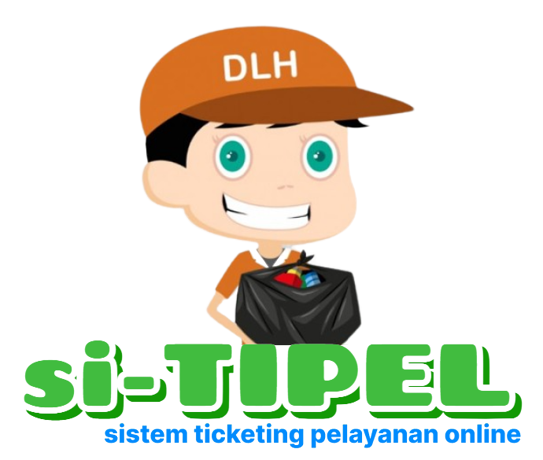
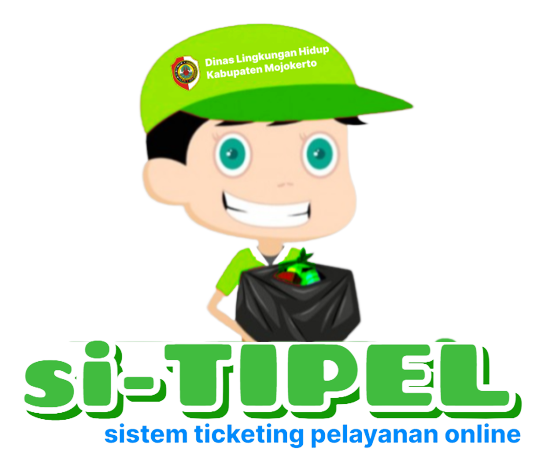
perbaikan semua notifikasi diuser maupun admin

diff --git a/resources/views/home/index.blade.php b/resources/views/home/index.blade.php
@@ -10,7 +10,7 @@
   <meta content="" name="keywords">
 
   <!-- Favicons -->
-  <link href="/img/si-TIPEL.png" rel="icon">
+  <link href="/img/logo-baru.png" rel="icon">
   <link href="/img/apple-touch-icon.png" rel="apple-touch-icon">
 
   <!-- Google Fonts -->
@@ -61,9 +61,8 @@
   <header id="header" class="fixed-top ">
    
     <div class="container d-flex align-items-center">
-      <div class="me-1 ">
-        <img src="/img/logo-kementrian.png" width="60" alt="">
-      </div>
+
+
       <div class="me-1 ">
         <img src="/img/logo-mojokerto.png" width="60" alt="">
       </div>
@@ -120,8 +119,10 @@
         <div class="col-lg-6 d-flex flex-column justify-content-center pt-3  pt-lg-0 order-2 order-lg-1" data-aos="fade-up" data-aos-delay="200">
 
           @auth
-          <h1>Selamat Datang {{ auth()->user()->name }} Di Sistem Ticketing Pelayanan Online</h1>
-          <h2>UPT Dinas Lingkungan Hidup Kabupaten Mojokerto</h2>
+          <h1>Selamat Datang </h1>
+          <h1>{{ auth()->user()->name }} </h1>
+          <h1>Di Website si-Tipel</h1>
+          <h2 class="" style="font-weight: 1000px;">Sistem Ticketing Pelayanan Online DLH Kabupaten Mojokerto</h2>
           <div class="d-flex justify-content-center justify-content-lg-start mt-5">
             <a href="/dashboard" class="btn-get-started scrollto" ><i class="bi bi-box-arrow-in-up-right"></i> Dashboard Saya</a>
             <a href="/dashboard" class="btn-get-started bg-success scrollto ms-3" ><i class="bi bi-pencil-square"></i> Buat Laporan</a>
@@ -129,8 +130,8 @@
             </div>
   
           @else
-          <h1>Selamat Datang Di Sistem Ticketing Pelayanan Online</h1>
-          <h2>UPT Dinas Lingkungan Hidup Kabupaten Mojokerto</h2>
+          <h1>Selamat Datang Di Website si-Tipel</h1>
+          <h2 class="" style="font-weight: 1000px;">Sistem Ticketing Pelayanan Online DLH Kabupaten Mojokerto</h2>
           <div class="d-flex justify-content-center justify-content-lg-start mt-5">
             <a href="/login" class="btn-get-started scrollto"><i class="bi bi-box-arrow-in-up-right"></i> Buat Aduan</a>
             <a href="#about" class="btn-get-started scrollto ms-3" ></i>Selengkapnya</a>
@@ -138,7 +139,7 @@
           @endauth
         </div>
         <div class="col-lg-6 order-1 order-lg-2 hero-img" data-aos="zoom-in" data-aos-delay="200">
-          <img src="/img/Frame_33.png" class="img-fluid" width="530" alt="">
+          <img src="/img/logo-baru.png" class="img-fluid" width="530" alt="">
         </div>
       </div>
     </div>

diff --git a/database/seeders/NotifikasiSeeder.php b/database/seeders/NotifikasiSeeder.php
@@ -14,58 +14,13 @@ class NotifikasiSeeder extends Seeder
     public function run(): void
     {
         Notifikasi::create([
-            'user_id' => 1,
-            'judul'=> 'Laporan Update',
-            'logo'=> 'clipboard',
-            'textlogo'=> 'text-primary',
-            'pesan' => 'Ini adalah notifikasi pertama.',
-            'status' => false,
-            'created_at' => '2023-02-18 08:37:02',
-
-        ]);
-        Notifikasi::create([
-            'user_id' => 1,
-            'judul'=> 'Laporan Update',
-            'logo'=> 'clipboard',
-            'textlogo'=> 'text-primary',
-            'pesan' => 'Ini adalah notifikasi kedua.',
-            'status' => false,
-            'created_at' => '2023-02-19 09:37:02',
-        ]);
-        Notifikasi::create([
-            'user_id' => 1,
-            'judul'=> 'Laporan Update',
-            'logo'=> 'clipboard',
-            'textlogo'=> 'text-primary',
-            'pesan' => 'Ini adalah notifikasi favng oiegvoe ngvweuh nvw heiu cnhu fhi uhN IEHF VNWE FGNvwf guyeW XNUFGU Yg xwyufuy bufybg wfvewfvw efwevwe bgth btrh bw rcwer ewr eccr ewr',
-            'status' => false,
-            'created_at' => '2023-04-18 08:37:02',
-        ]);
-        Notifikasi::create([
-            'user_id' => 1,
-            'judul'=> 'Laporan Update',
-            'logo'=> 'clipboard',
-            'textlogo'=> 'text-primary',
-            'pesan' => 'Ini adalah notifikasi favng oiegvoe ngvweuh nvw heiu cnhu fhi uhN IEHF VNWE FGNvwf guyeW XNUFGU Yg xwyufuy bufybg wfvewfvw efwevwe bgth btrh bw rcwer ewr eccr ewr',
-            'status' => false,
-            'created_at' => '2023-04-19 08:37:02',
-        ]);
-        Notifikasi::create([
-            'user_id' => 1,
-            'judul'=> 'Laporan Update',
-            'logo'=> 'clipboard',
-            'textlogo'=> 'text-primary',
-            'pesan' => 'Ini adalah notifikasi favng oiegvoe ngvweuh nvw heiu cnhu fhi uhN IEHF VNWE FGNvwf guyeW XNUFGU Yg xwyufuy bufybg wfvewfvw efwevwe bgth btrh bw rcwer ewr eccr ewr',
-            'status' => true,
-            'created_at' => '2023-04-21 08:37:02',
-        ]);
-        Notifikasi::create([
             'user_id' => 2,
             'judul'=> 'Laporan Update',
             'logo'=> 'clipboard',
             'textlogo'=> 'text-primary',
-            'pesan' => 'halo.',
-            'status' => false,
+            'pesan' => 'Status Laporan Id 3 diupdate oleh petugas',
+            'link' => '/dashboard/laporan/3',
+            'status' => true,
         ]);
     }
 }

diff --git a/resources/views/dashboard/laporanadmin/edit.blade.php b/resources/views/dashboard/laporanadmin/edit.blade.php
@@ -1,15 +1,24 @@
-
-
 @extends('dashboard.layouts.main')
 
 <head>
+	<link href="https://cdn.jsdelivr.net/npm/bootstrap@5.3.0-alpha1/dist/css/bootstrap.min.css" rel="stylesheet" integrity="sha384-GLhlTQ8iRABdZLl6O3oVMWSktQOp6b7In1Zl3/Jr59b6EGGoI1aFkw7cmDA6j6gD" crossorigin="anonymous">
+	<script src="https://cdn.jsdelivr.net/npm/bootstrap@5.3.0-alpha1/dist/js/bootstrap.bundle.min.js" integrity="sha384-w76AqPfDkMBDXo30jS1Sgez6pr3x5MlQ1ZAGC+nuZB+EYdgRZgiwxhTBTkF7CXvN" crossorigin="anonymous"></script>
+<!-- jQuery -->
+<script src="https://code.jquery.com/jquery-3.5.1.slim.min.js"></script>
+
+<!-- Popper.js -->
+<script src="https://cdn.jsdelivr.net/npm/@popperjs/core@2.9.3/dist/umd/popper.min.js"></script>
+
+<!-- Bootstrap JavaScript -->
+<script src="https://cdn.jsdelivr.net/npm/bootstrap@5.0.0-beta3/dist/js/bootstrap.min.js"></script>
+
     <link rel="stylesheet" href="https://cdn.jsdelivr.net/npm/sweetalert2@10.15.5/dist/sweetalert2.min.css">
     <script src="https://cdnjs.cloudflare.com/ajax/libs/sweetalert/2.1.2/sweetalert.min.js" integrity="sha512-AA1Bzp5Q0K1KanKKmvN/4d3IRKVlv9PYgwFPvm32nPO6QS8yH1HO7LbgB1pgiOxPtfeg5zEn2ba64MUcqJx6CA==" crossorigin="anonymous" referrerpolicy="no-referrer"></script>
 
     
         <link href="https://cdn.jsdelivr.net/npm/bootstrap@5.3.0-alpha1/dist/css/bootstrap.min.css" rel="stylesheet" integrity="sha384-GLhlTQ8iRABdZLl6O3oVMWSktQOp6b7In1Zl3/Jr59b6EGGoI1aFkw7cmDA6j6gD" crossorigin="anonymous">
         <script src="https://cdn.jsdelivr.net/npm/bootstrap@5.3.0-alpha1/dist/js/bootstrap.bundle.min.js" integrity="sha384-w76AqPfDkMBDXo30jS1Sgez6pr3x5MlQ1ZAGC+nuZB+EYdgRZgiwxhTBTkF7CXvN" crossorigin="anonymous"></script>
-      
+    
 </head>
 @section('container')
 
@@ -113,7 +122,10 @@
 
 
                     <p class="fs-1"><strong>{{ $laporan->judul }}</strong></p>
-                    <p>Dibuat pada : {{ $laporan->created_at->format('d F Y')  }}</p>
+                    <p>Dibuat pada : <strong>{{ $laporan->created_at->format('d F Y')  }}</strong></p>
+                    <p>Nama Pelapor : <strong>{{ $laporan->user->name  }}</strong></p>
+                    <p>Nomor Hp : <strong>{{ $laporan->user->nohp  }}</strong></p>
+                    <p>Email : <strong>{{ $laporan->user->email  }}</strong></p>
                     <p>Kategori : <strong>{{ $laporan->categoryAduan->name }}</strong></p>
                     @foreach ($statuses as $status)
                                         @if ($laporan->status == $status->kode_status)

diff --git a/database/seeders/CategoryAduanSeeder.php b/database/seeders/CategoryAduanSeeder.php
@@ -14,28 +14,28 @@ class CategoryAduanSeeder extends Seeder
     public function run(): void
     {
         CategoryAduan::create([
-            'name' =>'Timbulan Sampah',
-            'deskripsi' =>'Tumpukan sampah baru yang muncul di area Kabupaten Mojokerto',
-            'image' =>'img/timbulan.jpeg',
+            'name' =>'Pengaduan Masyarakat',
+            'deskripsi' =>'Semua masyarakat dapat mengadukan masalah yang ada di lingkungan hidup kabupaten mojokerto',
+            'image' =>'img/pengaduan.jpg',
             
         ]);
 
         CategoryAduan::create([
-            'name' =>'Gangguan Tumbuhan',
-            'deskripsi' =>'Tumbuhan yang mengganggu transportasi jalan raya di area Kabupaten Mojokerto',
-            'image' =>'img/gangguan-tumbuhan.jpeg',
+            'name' =>'Pelayanan Pengangkutan Sampah',
+            'deskripsi' =>'Pelayanan ini melibatkan proses pengumpulan, pengangkutan, dan pemrosesan sampah sesuai dengan regulasi dan kebijakan yang berlaku',
+            'image' =>'img/pengambilan-sampah.jpg',
         ]);
 
         CategoryAduan::create([
-            'name' =>'Limbah Air',
-            'deskripsi' =>'Pencemaran pembuangan limbah air yang menganggu dan terjadi di area Kabupaten Mojokerto',
-            'image' =>'img/limbah-air.jpeg',
-        ]);
-
-        CategoryAduan::create([
-            'name' =>'Limbah Udara',
-            'deskripsi' =>'Pencemaran pembuangan limbah udara yang menganggu dan terjadi di area Kabupaten Mojokerto',
+            'name' =>'Pengujian Parameter Udara',
+            'deskripsi' =>'Pengukuran berbagai parameter dan komponen dalam udara yang dapat memberikan informasi tentang tingkat polusi udara dan dampaknya terhadap lingkungan dan kesehatan masyarakat',
             'image' =>'img/limbah-udara.jpeg',
+        ]);
+
+        CategoryAduan::create([
+            'name' =>'Pengujian Parameter Air',
+            'deskripsi' =>'Pemantauan dan pengendalian kualitas air dilakukan untuk menentukan kualitas air dalam berbagai aspek seperti kebersihan, keamanan, dan kesesuaian dengan standar lingkungan yang telah ditetapkan',
+            'image' =>'img/limbah-air.jpeg',
         ]);
     }
 }

diff --git a/app/Http/Controllers/AdminLaporanController.php b/app/Http/Controllers/AdminLaporanController.php
@@ -90,7 +90,18 @@ class AdminLaporanController extends Controller
         // Update the status of the Laporan instance
         $laporan->status = $request->status;
         $laporan->save();
-    
+
+        // Create a new notification
+        $notification = new Notifikasi();
+        $notification->user_id = $laporan->user_id;
+        $notification->judul = 'Laporan Update';
+        $notification->pesan = 'Status Laporan anda dengan ID '.$laporan->id.' telah diupdate oleh petugas';
+        $notification->status = true;
+        $notification->logo = 'clipboard'; 
+        $notification->textlogo = 'text-primary'; 
+        $notification->link = '/dashboard/laporan/'.$laporan->id;
+        $notification->save();
+        
         toast('Laporan berhasil diupdate','success')->autoClose(5000)->width('320px');
         return redirect()->back();
     }
@@ -116,12 +127,13 @@ class AdminLaporanController extends Controller
         $images = LaporanImage::where('laporan_id', $laporan->id)->get();
         $komentar = Komentar::with('status')->where('laporan_id', $laporan->id)->orderBy('updated_at', 'desc')->get();
         
-        $notifikasi = Notifikasi::where('user_id', $user->id)
-                    ->orderByDesc('created_at')
-                    ->paginate(15);;
-        $jumlahnotif = Notifikasi::where('user_id', $user->id)
-                    ->where('status', true)
-                    ->count();
+        $notifikasi = Notifikasi::where('user_id', 1)
+        ->orderByDesc('created_at')
+        ->paginate(15);
+    
+        $jumlahnotif = Notifikasi::where('user_id', 1)
+            ->where('status', true)
+            ->count();
         
         if(auth()->user()->is_admin || auth()->user()->id == $laporan->user_id) {
             return view('dashboard.laporanadmin.edit', compact('laporan','userName','statuses','images','komentar', 'notifikasi', 'jumlahnotif'));

diff --git a/app/Http/Controllers/LaporanController.php b/app/Http/Controllers/LaporanController.php
@@ -79,7 +79,6 @@ class LaporanController extends Controller
         'imageFile.*' => 'image|max:5000|required', // Max size of each image is 5 MB
     ]);
     
-    
     // Buat Laporan baru
     $laporan = new Laporan();
     $laporan->judul = $validatedData['judul'];
@@ -106,7 +105,29 @@ class LaporanController extends Controller
             $image->save();
         }
     }
-    
+
+    // Create a new notification for client
+    $notification = new Notifikasi();
+    $notification->user_id = auth()->id();
+    $notification->judul = 'Laporan Baru Dibuat';
+    $notification->pesan = 'Laporan anda dengan ID '.$laporan->id.' telah dibuat dan sedang dalam antrian.';
+    $notification->status = true;
+    $notification->logo = 'clipboard'; 
+    $notification->textlogo = 'text-primary'; 
+    $notification->link = '/dashboard/laporan/'.$laporan->id;
+    $notification->save();
+
+    // Create a new notification for admin
+    $notification = new Notifikasi();
+    $notification->user_id = 1;
+    $notification->judul = 'Laporan Baru Dibuat';
+    $notification->pesan = 'Laporan dengan ID '.$laporan->id.' telah dibuat Mohon tindak lanjutnya';
+    $notification->status = true;
+    $notification->logo = 'clipboard'; 
+    $notification->textlogo = 'text-warning'; 
+    $notification->link = '/dashboard/laporanadmin/'.$laporan->id.'/edit';
+    $notification->save();
+
     return redirect()->route('laporan.index')->with('success', 'Laporan berhasil disubmit!');
         
     }

diff --git a/database/seeders/KomentarSeeder.php b/database/seeders/KomentarSeeder.php
@@ -15,21 +15,21 @@ class KomentarSeeder extends Seeder
     {
         Komentar::create([
             'laporan_id' => '1',
-            'komentar' => 'ashiappp kami terima aduannya boss',
+            'komentar' => 'kami terima aduannya',
             'file' => '',
             'updated_at' => '2023-02-17 08:37:02',
             'status' => '1',
         ]);
         Komentar::create([
             'laporan_id' => '1',
-            'komentar' => 'survey lokasi dulu boss beneran banyak sampah ape zonk',
+            'komentar' => 'survey lokasi dulu',
             'file' => '',
             'updated_at' => '2023-02-18 08:37:02',
             'status' => '2',
         ]);
         Komentar::create([
             'laporan_id' => '1',
-            'komentar' => 'sip udah diangkut boss',
+            'komentar' => 'udah diangkut',
             'file' => 'sip.jpg',
             'updated_at' => '2023-02-19 08:37:02',
             'status' => '3',
@@ -37,7 +37,7 @@ class KomentarSeeder extends Seeder
 
         Komentar::create([
             'laporan_id' => '1',
-            'komentar' => 'udah bersih boss shengghol dhonk',
+            'komentar' => 'udah bersih',
             'file' => 'bersih.jpg',
             'updated_at' => '2023-02-19 10:37:02',
             'status' => '99',

diff --git a/database/seeders/LaporanSeeder.php b/database/seeders/LaporanSeeder.php
@@ -23,7 +23,7 @@ class LaporanSeeder extends Seeder
             'status' => '99',
         ]);
         Laporan::create([
-            'category_aduan_id' =>'2',
+            'category_aduan_id' =>'1',
             'user_id' =>'2',
             'judul' =>'ranting pohon besar melebihi garis pembatas jalan ',
             'body' =>'dijalan ini terdapat ranting pohon yang menganggu pengguna jalan',
@@ -32,12 +32,12 @@ class LaporanSeeder extends Seeder
             'status' => '0',
         ]);
         Laporan::create([
-            'category_aduan_id' =>'1',
+            'category_aduan_id' =>'2',
             'user_id' =>'2',
             'judul' =>'Bau menyengat sampah dijalan sebelah makam wonosari',
             'body' =>'Warga yang melintas tidak nyaman mohon segera diangkut sampahnya dan diberi larangan buang sampah disekitar area situ',
             'coordinates' =>'-7.498446969127178, 112.4771356269647',
-            'address' =>'Jalan Raya Watukosek, Wonosari, Mojokerto, East Java, 61384, Indonesia',
+            'address' =>'Pacing, Bangsal, Mojokerto Regency, East Java',
             'status' => '1',
         ]);
         Laporan::create([

diff --git a/resources/views/dashboard/laporan/show.blade.php b/resources/views/dashboard/laporan/show.blade.php
@@ -49,7 +49,10 @@
                     <span data-feather="arrow-left"></span> Kembali
                 </a>
                     <p class="fs-1"><strong>{{ $laporan->judul }}</strong></p>
-                    <p>Dibuat pada : {{ $laporan->created_at->format('d F Y')  }}</p>
+                    <p>Dibuat pada : <strong>{{ $laporan->created_at->format('d F Y')  }}</strong></p>
+                    <p>Nama Pelapor : <strong>{{ $laporan->user->name  }}</strong></p>
+                    <p>Nomor Hp : <strong>{{ $laporan->user->nohp  }}</strong></p>
+                    <p>Email : <strong>{{ $laporan->user->email  }}</strong></p>
                     <p>Kategori : <strong>{{ $laporan->categoryAduan->name }}</strong></p>
                     @foreach ($statuses as $status)
                                         @if ($laporan->status == $status->kode_status)

diff --git a/app/Http/Controllers/CategoryAduanController.php b/app/Http/Controllers/CategoryAduanController.php
@@ -95,8 +95,15 @@ class CategoryAduanController extends Controller
                     ->where('laporans.category_aduan_id', $id)
                     ->orderBy('laporans.created_at', 'desc')
                     ->paginate(30);
+        $user = Auth::user();
+        $notifikasi = Notifikasi::where('user_id', $user->id)
+                                ->orderByDesc('created_at')
+                                ->paginate(15);;
+        $jumlahnotif = Notifikasi::where('user_id', $user->id)
+                                ->where('status', true)
+                                ->count();
         
-        return view('dashboard.kategori.show', compact('category', 'laporans'));
+        return view('dashboard.kategori.show', compact('category', 'laporans', 'notifikasi', 'jumlahnotif'));
     }
     
 

diff --git a/resources/views/dashboard/layouts/sidebar.blade.php b/resources/views/dashboard/layouts/sidebar.blade.php
@@ -156,7 +156,9 @@
               @foreach($notifikasi as $notif)
                   @if($count < 4)
                   @if ($notif->status)
-                    <a href="{{ $notif->link }}" class="list-group-item bg-primary">
+                  <form id="notif-form-{{ $notif->id }}" action="{{ route('notif-update', $notif->id) }}" method="POST" enctype="multipart/form-data">
+                    @csrf
+                    <a onclick="event.preventDefault(); document.getElementById('notif-form-{{ $notif->id }}').submit();" class="list-group-item bg-primary" style="border: none;">
                       <div class="row g-0 align-items-center ">
                           <div class="col-2">
                               <i class="text-white ms-2" data-feather="{{ $notif->logo }}"></i>

diff --git a/app/Http/Controllers/StatusController.php b/app/Http/Controllers/StatusController.php
@@ -85,8 +85,15 @@ class StatusController extends Controller
             ->where('laporans.status', $kode_status)
             ->orderBy('laporans.created_at', 'desc')
             ->paginate(30);
+        $user = Auth::user();
+        $notifikasi = Notifikasi::where('user_id', $user->id)
+                        ->orderByDesc('created_at')
+                        ->paginate(15);;
+        $jumlahnotif = Notifikasi::where('user_id', $user->id)
+                        ->where('status', true)
+                        ->count();
     
-        return view('dashboard.status.show', compact('status', 'laporans'));
+        return view('dashboard.status.show', compact('status', 'laporans', 'notifikasi', 'jumlahnotif'));
     }
     
 
